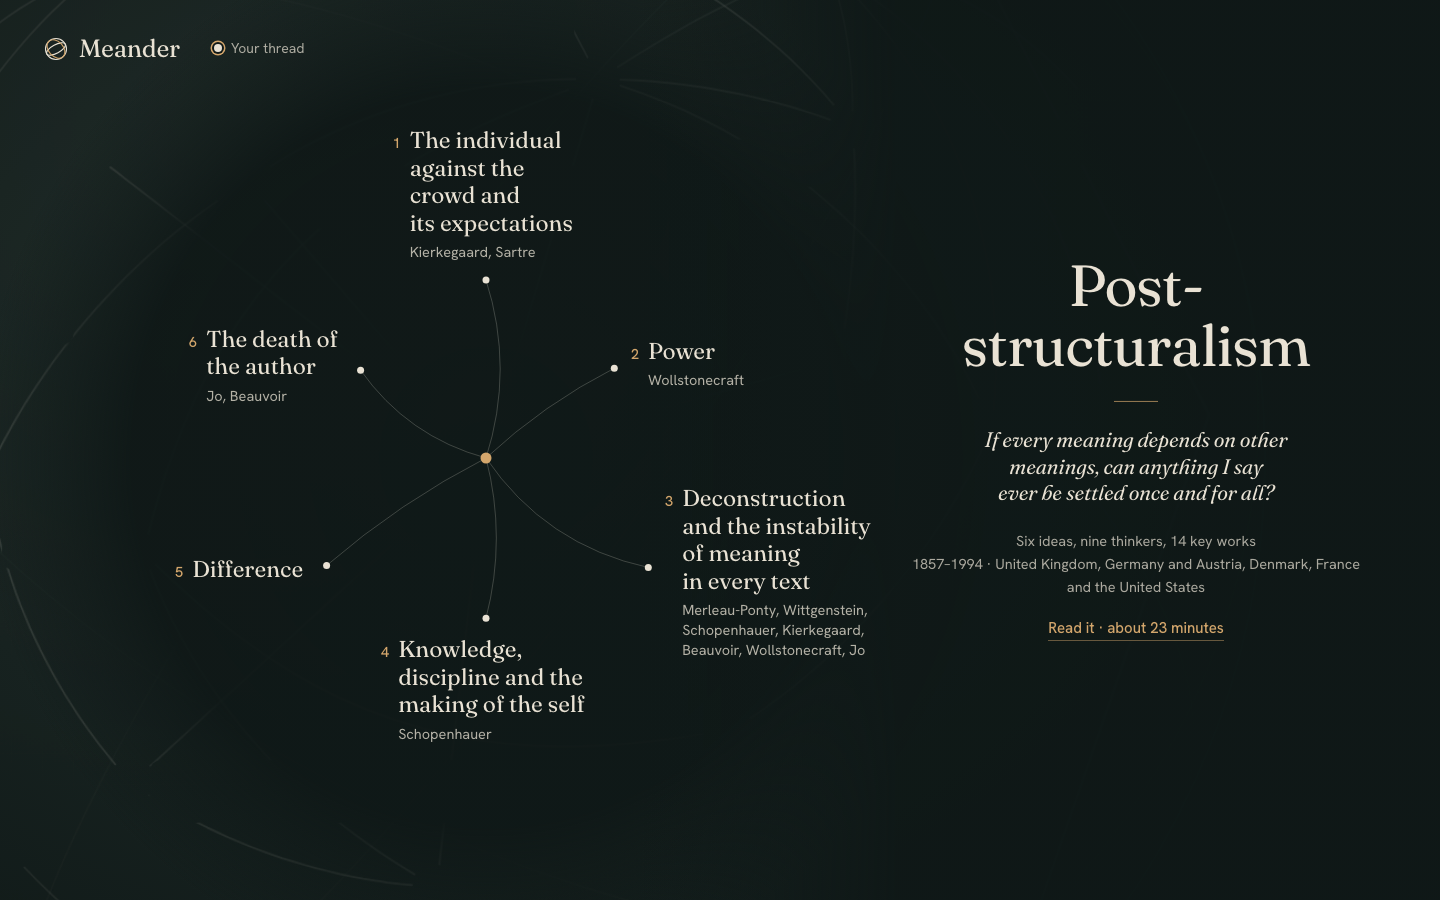
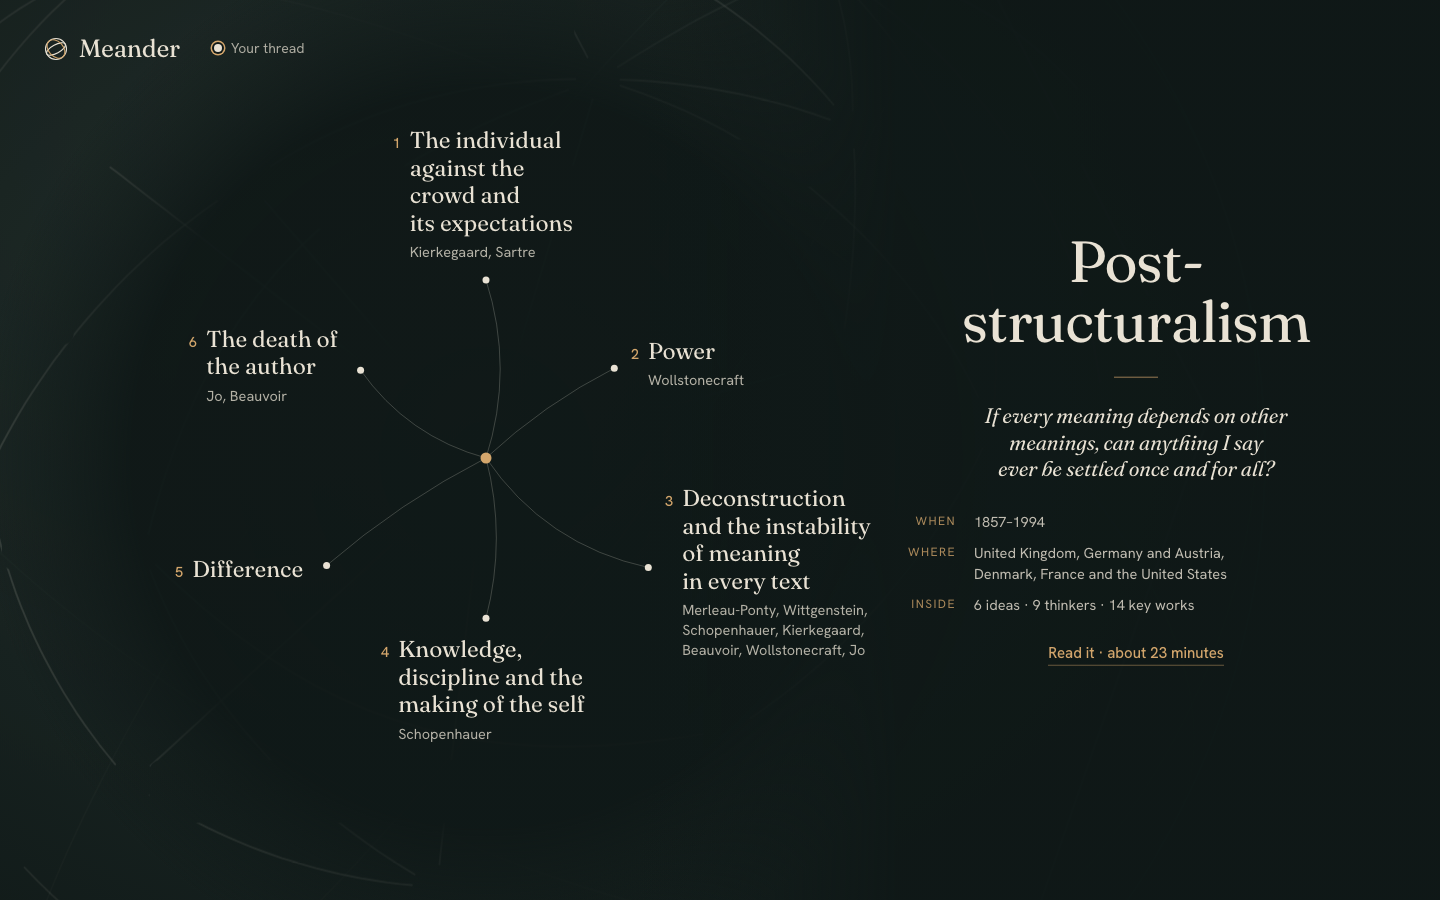
11 Meander: L32 labelled facts in P7

Changed region(s): [[0.6562, 0.28, 0.9375, 0.7467], [0.625, 0.6533, 0.6562, 0.6844], [0.625, 0.5911, 0.6562, 0.6222]]

diff --git a/docs/products/11-meander/design/skeleton-r4/P7-first-page-mirrored.html b/docs/products/11-meander/design/skeleton-r4/P7-first-page-mirrored.html
@@ -215,7 +215,10 @@ svg.ov .sp{stroke:var(--bone);stroke-opacity:.22;stroke-width:1}
 .rule{width:44px;border-top:1px solid var(--brass);opacity:.7;margin:26px 0 24px}
 .ask{font-size:26px;line-height:1.24;color:var(--bone);max-width:410px}
 .ask.long{font-size:21px}
-.facts{margin-top:24px;font-size:14.5px;line-height:1.6;text-wrap:balance}
+/* facts 2, labelled lines (#33) */
+.fx2{display:grid;grid-template-columns:auto minmax(0,auto);column-gap:18px;row-gap:10px;margin:30px 0 8px;text-align:left;font-size:14.5px;max-width:100%}
+.fx2 dt{color:var(--brass);opacity:.8;font-size:12px;letter-spacing:.12em;text-transform:uppercase;padding-top:2px;text-align:right}
+.fx2 dd{margin:0;color:rgba(233,226,212,.82);text-wrap:balance}
 .mid .lnk{margin-top:10px}
 .picked .kick{font-size:14.5px}
 .picked h2{font-size:40px;line-height:1.08;letter-spacing:-.012em;margin-top:14px;max-width:440px;overflow-wrap:break-word}
@@ -256,7 +259,7 @@ svg.ov .sp{stroke:var(--bone);stroke-opacity:.22;stroke-width:1}
 <div class="knotwrap"><svg class="ov" aria-hidden="true"></svg><i class="knot" style="left:486px;top:458px"></i></div>
 <header class="solid"><button class="wm" translate="no" title="Back to the whole field"><svg width="24" height="24" viewBox="0 0 24 24" aria-hidden="true"><g fill="none" stroke="#e9e2d4" stroke-width="1.1"><circle cx="12" cy="12" r="10.5"/><ellipse cx="12" cy="12" rx="10.5" ry="4.2" transform="rotate(-28 12 12)"/><ellipse cx="12" cy="12" rx="10.5" ry="7.4" transform="rotate(48 12 12)" stroke="#d3a66c"/></g></svg>Meander</button><button class="yt" aria-expanded="false"><i></i>Your thread</button></header>
 <section class="info" aria-label="Existentialism">
-<div class="school"><div class="mid"><h1 class="d" data-f="name" tabindex="-1"></h1><i class="rule"></i><p class="ask d it" data-f="q" data-long="70"></p><p class="quiet facts"><span data-f="size"></span><br><span data-f="when"></span></p><a class="lnk" href="#read" data-read><u data-f="read"></u></a></div></div>
+<div class="school"><div class="mid"><h1 class="d" data-f="name" tabindex="-1"></h1><i class="rule"></i><p class="ask d it" data-f="q" data-long="70"></p><dl class="fx2"><dt>When</dt><dd data-f="span"></dd><dt>Where</dt><dd data-f="places"></dd><dt>Inside</dt><dd data-f="inside"></dd></dl><a class="lnk" href="#read" data-read><u data-f="read"></u></a></div></div>
 <div class="picked"><div class="mid"><p class="kick" data-p="n"></p><h2 class="d" data-p="title"></h2><i class="rule"></i><p class="sum d it" data-p="summary" data-plong="100"></p><p class="quiet with" data-p="who"></p><p class="row"><a class="lnk" href="#read" data-read><u>Read this part</u></a><button class="lnk back" data-back><u data-f="back"></u></button></p></div></div>
 </section>
 <p class="say" aria-hidden="true"></p><p class="sr" aria-live="polite"></p>
@@ -277,7 +280,7 @@ const esc=s=>s.replace(/[&<>]/g,c=>({'&':'&amp;','<':'&lt;','>':'&gt;'}[c]));
 const F={name:D.name,q:D.q,tagline:D.tagline,span:D.span,places:D.places.join(', '),
   when:D.span+' · '+D.places.join(', '),read:'Read it · about '+D.mins+' minute'+(D.mins===1?'':'s'),
   people:names(D.people),withpeople:'With '+names(D.people),
-  size:cap(pl(n,'idea'))+', '+pl(D.people.length,'thinker')+', '+pl(D.works,'key work'),back:'Back to '+D.name};
+  size:cap(pl(n,'idea'))+', '+pl(D.people.length,'thinker')+', '+pl(D.works,'key work'),back:'Back to '+D.name,inside:n+' ideas · '+D.people.length+' thinkers · '+D.works+' key works'};
 S.style.setProperty('--dx',(cx-500)+'px');S.style.setProperty('--dy',(cy-456)+'px');
 S.style.setProperty('--cx',cx+'px');S.style.setProperty('--cy',cy+'px');
 KW.style.transformOrigin=cx+'px '+cy+'px';

diff --git a/docs/products/11-meander/design/skeleton-r4/_src/build_p7.py b/docs/products/11-meander/design/skeleton-r4/_src/build_p7.py
@@ -17,6 +17,8 @@ rep('JS', "const a=(-90+i*360/n)*Math.PI/180,c=Math.cos(a),s=Math.sin(a);",
 rep('JS', "x1=cx+R*c,y1=cy+R*s,k=(i%2?1:-1)*.1*(R-r0);", "x1=cx+Ri*c,y1=cy+Ri*s,k=pick_('k',(i%2?1:-1)*.1)*(Ri-r0);")
 rep('JS', "el.style.left=(cx+(R+g)*c).toFixed(1)+'px';el.style.top=(cy+(R+g)*s).toFixed(1)+'px';",
     "el.style.left=(cx+(Ri+g)*c).toFixed(1)+'px';el.style.top=(cy+(Ri+g)*s).toFixed(1)+'px';")
+# facts 2, labelled lines (#33)
+rep('JS', "back:'Back to '+D.name};", "back:'Back to '+D.name,inside:n+' ideas · '+D.people.length+' thinkers · '+D.works+' key works'};")
 # nothing looks picked at the start: no 'first' styling, equal beads
 rep('JS', "r:i?3.5:4.5", "r:3.5")
 rep('JS', "'sp'+(i?'':' first')", "'sp'")
@@ -57,7 +59,10 @@ svg.ov .sp{stroke:var(--bone);stroke-opacity:.22;stroke-width:1}
 .rule{width:44px;border-top:1px solid var(--brass);opacity:.7;margin:26px 0 24px}
 .ask{font-size:26px;line-height:1.24;color:var(--bone);max-width:410px}
 .ask.long{font-size:21px}
-.facts{margin-top:24px;font-size:14.5px;line-height:1.6;text-wrap:balance}
+/* facts 2, labelled lines (#33) */
+.fx2{display:grid;grid-template-columns:auto minmax(0,auto);column-gap:18px;row-gap:10px;margin:30px 0 8px;text-align:left;font-size:14.5px;max-width:100%}
+.fx2 dt{color:var(--brass);opacity:.8;font-size:12px;letter-spacing:.12em;text-transform:uppercase;padding-top:2px;text-align:right}
+.fx2 dd{margin:0;color:rgba(233,226,212,.82);text-wrap:balance}
 .mid .lnk{margin-top:10px}
 .picked .kick{font-size:14.5px}
 .picked h2{font-size:40px;line-height:1.08;letter-spacing:-.012em;margin-top:14px;max-width:440px;overflow-wrap:break-word}
@@ -69,6 +74,6 @@ svg.ov .sp{stroke:var(--bone);stroke-opacity:.22;stroke-width:1}
 .picked .mid .lnk{margin-top:0}
 .lnk.back{color:rgba(233,226,212,.82)}
 """, '<div class="veil"></div>', f"""<section class="info" aria-label="Existentialism">
-<div class="school"><div class="mid"><h1 class="d" data-f="name" tabindex="-1"></h1><i class="rule"></i><p class="ask d it" data-f="q" data-long="70"></p><p class="quiet facts"><span data-f="size"></span><br><span data-f="when"></span></p>{READ}</div></div>
+<div class="school"><div class="mid"><h1 class="d" data-f="name" tabindex="-1"></h1><i class="rule"></i><p class="ask d it" data-f="q" data-long="70"></p><dl class="fx2"><dt>When</dt><dd data-f="span"></dd><dt>Where</dt><dd data-f="places"></dd><dt>Inside</dt><dd data-f="inside"></dd></dl>{READ}</div></div>
 <div class="picked"><div class="mid"><p class="kick" data-p="n"></p><h2 class="d" data-p="title"></h2><i class="rule"></i><p class="sum d it" data-p="summary" data-plong="100"></p><p class="quiet with" data-p="who"></p><p class="row">{PART}{BACK}</p></div></div>
 </section>""")

diff --git a/docs/products/11-meander/decisions.md b/docs/products/11-meander/decisions.md
@@ -62,3 +62,4 @@ Every decision except ops (decision 0026): L-numbers for learning decisions, T-n
 | L29 | 27 Nov | Side panel: P6 "first page", mirrored, so the knot is on the left and the overview on the right. One prototype first, so the owner can see it before it's final | Owner | Round 4 (L28) | The owner prefers P6's calm book opening. The critic scored P6 8, joint top with P2, and it is the only option that shows size. The critic's shared fixes go in at the same time |
 | L30 | 27 Nov | Final skeleton design: P7 (P6 first page, mirrored, with the critic's shared fixes and the idea title repeated when picked). Next: canvas sign-off, then the UI build | Owner | Round 4 (L29, #30) | The owner's pick. The critic scored P6 8; P7 adds its shared fixes |
 | L31 | 27 Nov | Knot threads: option B, quiet bone. The threads are faint warm grey; only the picked thread turns brass | Owner | Canvas (#32) | Brass then always means "the idea you're on", so the words lead and the structure stays quiet |
+| L32 | 27 Nov | Overview facts as labelled lines: When / Where / Inside (6 ideas · 5 thinkers · 7 key works) | Owner | Canvas (#33) | Each fact says what it is, in the order a newcomer asks; calmer than big numbers |

diff --git a/docs/products/11-meander/feedback.md b/docs/products/11-meander/feedback.md
@@ -36,4 +36,4 @@ Status: `open` · `fixing` · `fixed` · `parked` · `won't do`
 | 30 | Owner, P7 review (27 Nov) | Show the idea's title again on the right when an idea is picked: seeing it again helps recall | done: title above the summary, summary a step smaller |
 | 31 | Owner, canvas (27 Nov) | Keep every globe label inside the globe (the sketch has Classical Greek outside the rim); without messing with the layout | planned for the build: make the rim rule near-hard in `placeLabels`, check all 23 views. The live app has the same issue (Rationalism ~40px out with Existentialism focused) |
 | 32 | Owner, canvas (27 Nov) | The brass threads in the open knot pull the eye too much. Keep the lines, but more subtle; show 3 options | done: B quiet bone (L31) |
-| 33 | Owner, canvas (27 Nov) | The overview facts (ideas, thinkers, works, dates, places) feel clustered; divide them up and present them more cleanly | options on the canvas: 1 three numbers, 2 labelled When / Where / Inside (recommended), 3 two groups |
+| 33 | Owner, canvas (27 Nov) | The overview facts (ideas, thinkers, works, dates, places) feel clustered; divide them up and present them more cleanly | done: facts 2 (L32) |

diff --git a/docs/products/11-meander/journal.md b/docs/products/11-meander/journal.md
@@ -179,3 +179,4 @@ For the shared pages (knowledge bank, problems, learnings, process changes), wri
 - **Canvas #32:** the threads pull the eye. Three line options are on the canvas next to the originals: A hairline brass, B quiet bone (brass only on the picked thread, my pick), C stitched. Files: `design/skeleton-r4/P7-L*`.
 - **Canvas #33:** the facts block feels clustered. Three options are on the canvas: three numbers, labelled lines (my pick), two groups. Files: `design/skeleton-r4/P7-F*`.
 - **L31:** the owner picked line B. It's built into P7 (`_src/build_p7.py`) and the prototype is reshot.
+- **L32:** the owner picked facts 2. It's built into P7, and the worst case wraps cleanly.
